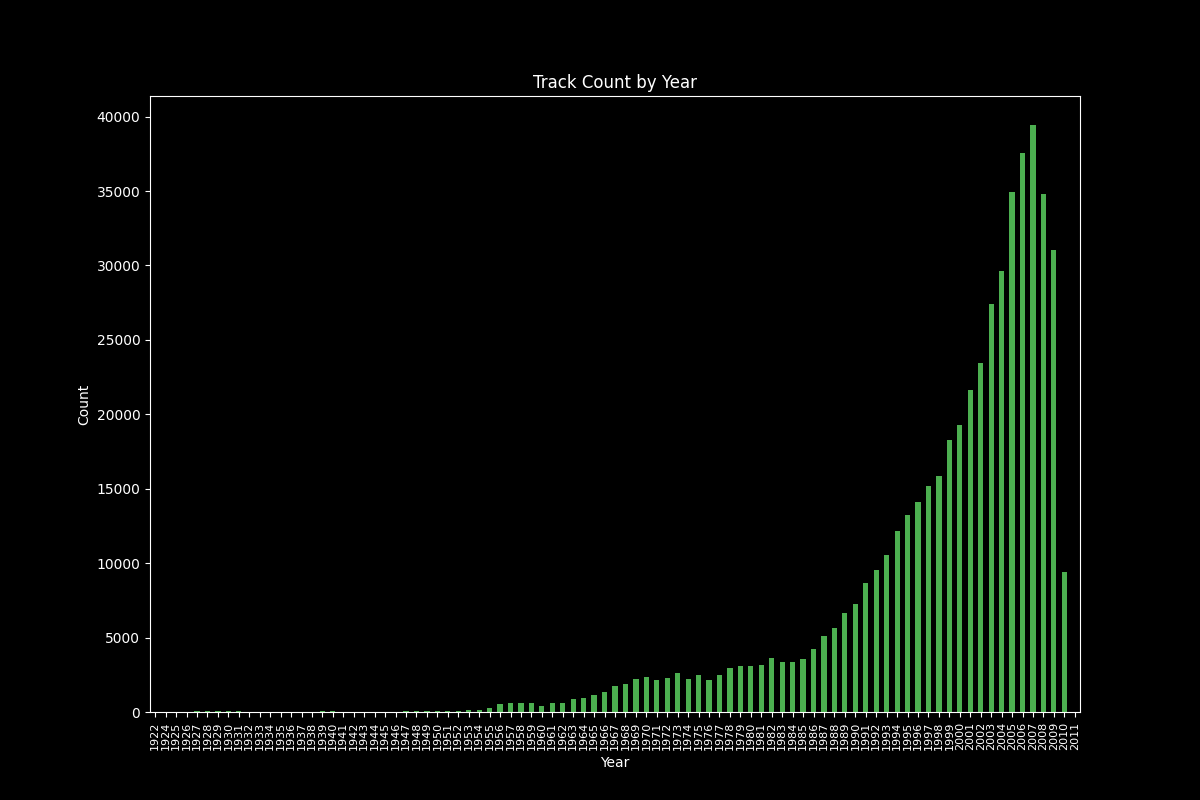
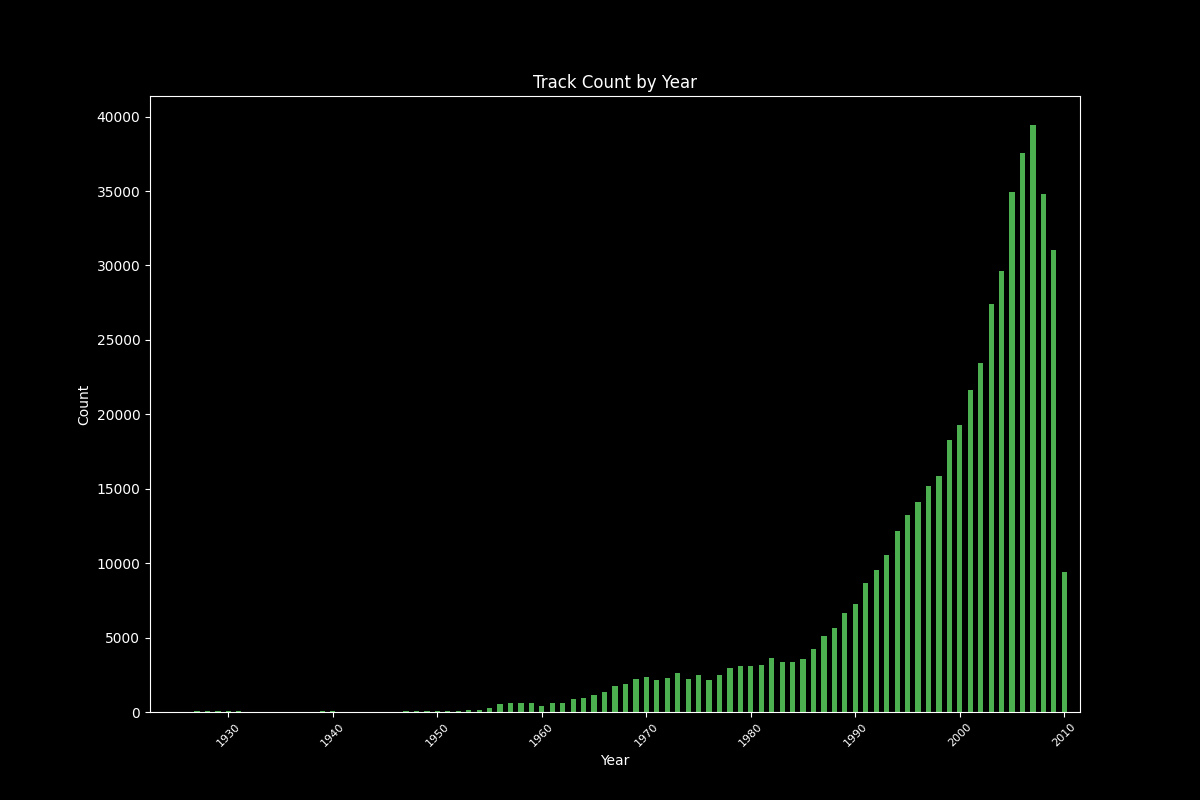
d

Changed region(s): [[0.1233, 0.9062, 0.8942, 0.9688]]

diff --git a/2_track_metadata_analysis.py b/2_track_metadata_analysis.py
@@ -30,6 +30,16 @@ ax.set_xlabel('Year')
 ax.set_ylabel('Count')
 ax.set_title('Track Count by Year')
 plt.xticks(fontsize=8)
+
+# Adjust x-ticks to show labels every 10 years
+years = year_counts.index
+# Create x-tick positions (0-based index for bar plot)
+xticks = [i for i, year in enumerate(years) if year % 10 == 0]
+# Create x-tick labels (only years divisible by 10)
+xtick_labels = [str(year) for year in years if year % 10 == 0]
+
+ax.set_xticks(xticks)  # Set x-tick positions
+ax.set_xticklabels(xtick_labels, rotation=45)  # Set x-tick labels
 # Show the plot
 #plt.savefig(r"C:\Users\resha\plots\year_distribution.png")
 #plt.savefig(r"C:\Users\corc4\plots\year_distribution.png")
